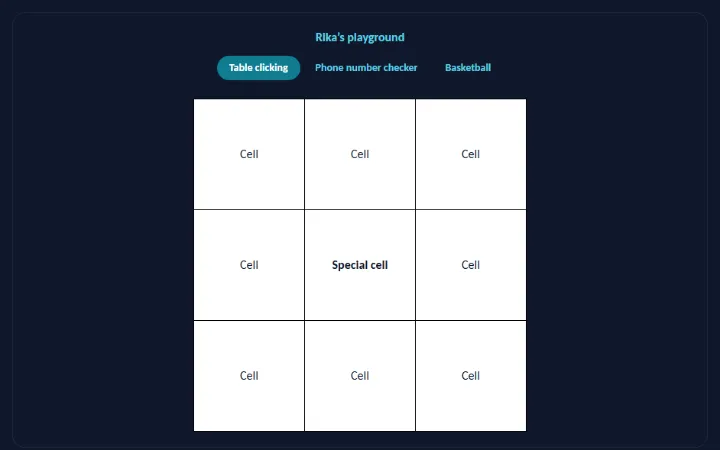
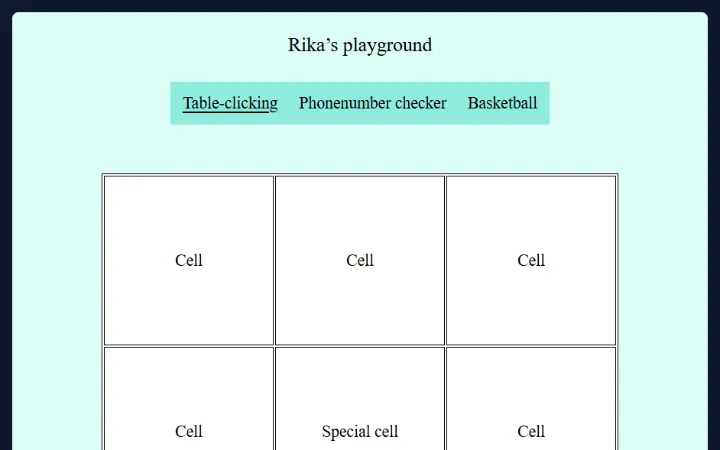
Give HW14 the look of the original Rika's playground
The original page was mint, in Times New Roman, with "Rika's playground"
over a turquoise tab bar (Table-clicking, Phonenumber checker,
Basketball): a big double-bordered table, a tall phone field with a gray
Send button, and "Team A:0 / Team B:0" under a white-framed court.
Rebuild it like that; it stays light in the dark theme too.

diff --git a/src/homework/hw14-dom-events/DomEvents.tsx b/src/homework/hw14-dom-events/DomEvents.tsx
@@ -1,12 +1,12 @@
 import { useState } from 'react'
-import { cx, Panel } from '../../components/ui'
+import { cx } from '../../components/ui'
 import { Basketball } from './Basketball'
 import { ColorTable } from './ColorTable'
 import { PhoneChecker } from './PhoneChecker'
 
 const tasks = [
-  { label: 'Table clicking', Component: ColorTable },
-  { label: 'Phone number checker', Component: PhoneChecker },
+  { label: 'Table-clicking', Component: ColorTable },
+  { label: 'Phonenumber checker', Component: PhoneChecker },
   { label: 'Basketball', Component: Basketball },
 ]
 
@@ -15,9 +15,14 @@ export default function DomEvents() {
   const ActiveTask = (tasks[active] ?? tasks[0])?.Component
 
   return (
-    <Panel>
-      <p className="mb-3 text-center font-semibold text-link">Rika’s playground</p>
-      <div role="tablist" className="mb-6 flex flex-wrap justify-center gap-1">
+    // The original page: mint, in Times New Roman, with "Rika's playground" over a turquoise tab
+    // bar. It stays light in the dark theme too, like the other original pages.
+    <div className="flex flex-col items-center overflow-hidden rounded-lg bg-[#dcfcf6] px-4 pt-6 pb-10 font-times text-black">
+      <p className="mb-7 text-[1.6rem]">Rika’s playground</p>
+      <div
+        role="tablist"
+        className="mb-12 flex flex-wrap justify-center gap-x-7 gap-y-1 bg-[#8eebdc] px-4 py-3 text-[1.35rem] sm:mb-16"
+      >
         {tasks.map((task, index) => (
           <button
             key={task.label}
@@ -26,19 +31,17 @@ export default function DomEvents() {
             aria-selected={index === active}
             onClick={() => setActive(index)}
             className={cx(
-              'cursor-pointer rounded-full px-4 py-1.5 text-sm font-semibold',
-              index === active
-                ? 'bg-accent text-white'
-                : 'text-link hover:bg-accent-soft dark:hover:bg-slate-800',
+              'cursor-pointer underline-offset-4 hover:underline',
+              index === active && 'underline',
             )}
           >
             {task.label}
           </button>
         ))}
       </div>
-      <div role="tabpanel" className="flex justify-center">
+      <div role="tabpanel" className="flex max-w-full justify-center">
         {ActiveTask && <ActiveTask />}
       </div>
-    </Panel>
+    </div>
   )
 }

diff --git a/src/homework/hw14-dom-events/PhoneChecker.tsx b/src/homework/hw14-dom-events/PhoneChecker.tsx
@@ -27,11 +27,11 @@ export function PhoneChecker() {
   }
 
   return (
-    <div className="w-full max-w-md">
+    <div className="w-full max-w-[32rem]">
       <p
         role="status"
         className={cx(
-          'mb-3 min-h-12 border-2 px-3 py-2 text-slate-900',
+          'mb-6 min-h-12 border-2 px-3 py-2',
           !notification && 'invisible',
           notification?.type === 'error' && 'border-[#de4388] bg-[#e693b8]',
           notification?.type === 'success' && 'border-[#5f9939] bg-[#b7de9e]',
@@ -39,24 +39,24 @@ export function PhoneChecker() {
       >
         {notification?.text}
       </p>
-      <form onSubmit={handleSubmit} noValidate className="flex gap-3">
+      <form onSubmit={handleSubmit} noValidate className="flex gap-4 font-verdana">
         <input
           type="tel"
           aria-label="Phone number"
-          placeholder="+380*********"
+          placeholder="Type phone number in format +380*********"
           autoComplete="tel"
           value={phone}
           onChange={(event) => handleChange(event.target.value)}
           aria-invalid={notification?.type === 'error'}
           className={cx(
-            'h-12 min-w-0 flex-1 border-2 bg-white px-3 text-slate-900 outline-none',
+            'h-16 min-w-0 flex-1 border-2 bg-white px-1 text-lg outline-none sm:h-20 sm:text-[1.3rem]',
             notification?.type === 'error' ? 'border-[#de4388]' : 'border-black',
           )}
         />
         <button
           type="submit"
           disabled={!isValid}
-          className="h-12 w-20 cursor-pointer border-2 border-black bg-white text-slate-900 disabled:cursor-not-allowed disabled:border-slate-400 disabled:text-slate-400"
+          className="h-16 w-24 shrink-0 cursor-pointer border-2 border-black bg-[#e8e6eb] text-lg disabled:cursor-not-allowed disabled:text-[#8a8a8a] sm:h-20 sm:text-[1.3rem]"
         >
           Send
         </button>

diff --git a/src/homework/hw14-dom-events/ColorTable.tsx b/src/homework/hw14-dom-events/ColorTable.tsx
@@ -41,7 +41,13 @@ export function ColorTable() {
   }
 
   return (
-    <table className={cx('border-collapse text-slate-900', green && colorClass.green)}>
+    // The original look: a table with border="1", so every cell has a double border.
+    <table
+      className={cx(
+        'border-separate border-spacing-[2px] border border-black bg-white text-black',
+        green && colorClass.green,
+      )}
+    >
       <tbody>
         {Array.from({ length: ROWS }, (_, row) => (
           // biome-ignore lint/suspicious/noArrayIndexKey: fixed-size grid, the index is the identity
@@ -57,9 +63,8 @@ export function ColorTable() {
                     data-color={color}
                     onClick={() => handleClick(row, column)}
                     className={cx(
-                      'size-24 cursor-pointer sm:size-36',
+                      'size-24 cursor-pointer text-[1.35rem] sm:size-40 md:size-[13.75rem]',
                       colorClass[color],
-                      isSpecial && 'font-semibold',
                     )}
                   >
                     {isSpecial ? 'Special cell' : 'Cell'}

diff --git a/src/homework/hw14-dom-events/Basketball.tsx b/src/homework/hw14-dom-events/Basketball.tsx
@@ -75,7 +75,7 @@ export function Basketball() {
           ref={courtRef}
           data-testid="court"
           onClick={moveBall}
-          className="relative cursor-pointer"
+          className="relative cursor-pointer ring-6 ring-white"
           style={{ ...COURT, backgroundImage: `url(${court})`, backgroundSize: '100% 100%' }}
         >
           <img
@@ -98,12 +98,12 @@ export function Basketball() {
           ))}
         </div>
 
-        <div className="mt-2 flex justify-between text-slate-700 dark:text-slate-200">
+        <div className="mt-3 flex justify-between text-[1.35rem]">
           <p>
-            Team A: <span data-testid="score-A">{scores.A}</span>
+            Team A:<span data-testid="score-A">{scores.A}</span>
           </p>
           <p>
-            Team B: <span data-testid="score-B">{scores.B}</span>
+            Team B:<span data-testid="score-B">{scores.B}</span>
           </p>
         </div>
         <p

diff --git a/src/index.css b/src/index.css
@@ -19,6 +19,9 @@
   --font-bootstrap:
     -apple-system, BlinkMacSystemFont, "Segoe UI", Roboto, "Helvetica Neue", Arial, "Noto Sans",
     sans-serif;
+  /* The fonts of the plain original pages: the browser's default serif and Verdana for forms. */
+  --font-times: "Times New Roman", Times, serif;
+  --font-verdana: Verdana, Geneva, Tahoma, sans-serif;
 
   /* Buttons and other controls (white text on it). */
   --color-accent: #0f7c90;
